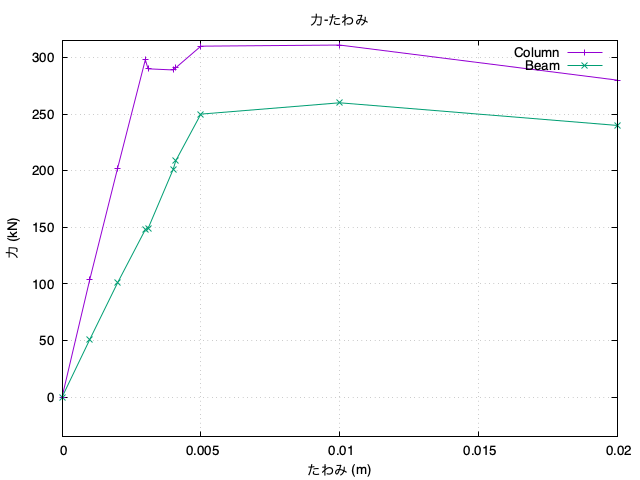
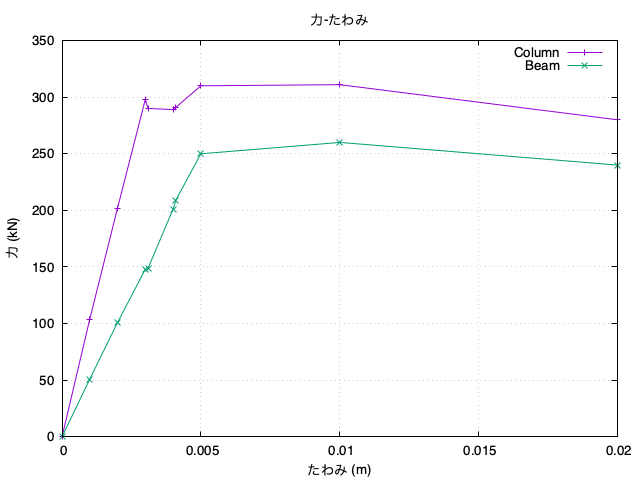
課題完成

diff --git a/exercise.md b/exercise.md
@@ -26,6 +26,15 @@
 ```gnuplot {cmd=true output="html"}
 set terminal svg
 
+set grid
+set xrange[0:7]
+set yrange [-20:15]
+set title "関数のプロット"
+set xlabel "x"
+set ylabel "y"
+f1(x) = 2*x**2*sqrt(x)-5*x**2
+f2(x) = x/log10(x)
+plot f1(x), f2(x)
 ```
 
 ## 3. 八王子の気温
@@ -46,6 +55,11 @@ set terminal svg
 set xdata time
 set timefmt '%Y/%m/%d'
 set xtics format "%m/%d"
+set grid
+
+
+set datafile separator comma
+plot "weather2026.csv" using 1:2 w l title"最高気温", "weather2026.csv" using 1:3 w l title"最高気温(平年)", "weather2026.csv" using 1:4 w l title"最低気温", "weather2026.csv" using 1:5 w l title"最低気温(平年)"
 
 ```
 
@@ -66,6 +80,13 @@ set xtics format "%m/%d"
 ```gnuplot {cmd=true, output="html"}
 set terminal svg
 unset key
+set style fill solid
+set boxwidth 0.6
+set yrange [0:18]
+set grid
+set title "誕生日の月別人数"
+set xlabel "誕生月"
+set ylabel "人数"
 
-
+plot "bm.txt" using 1:2: xtic(1) with boxes linecolor "skyblue"
 ```